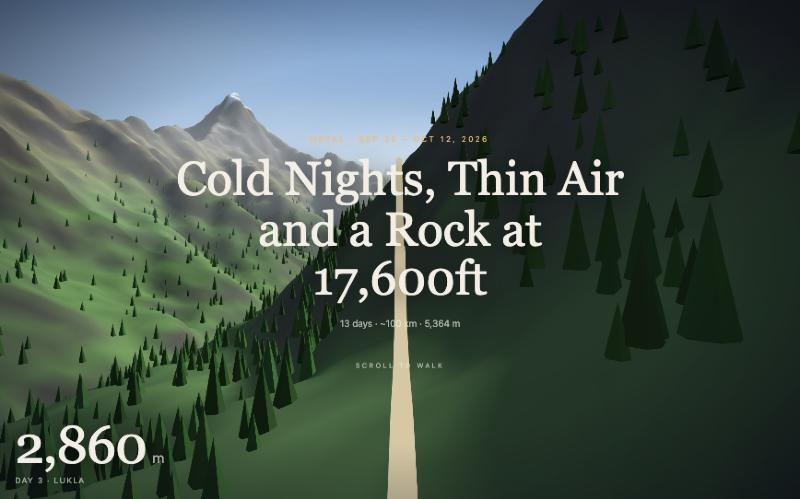
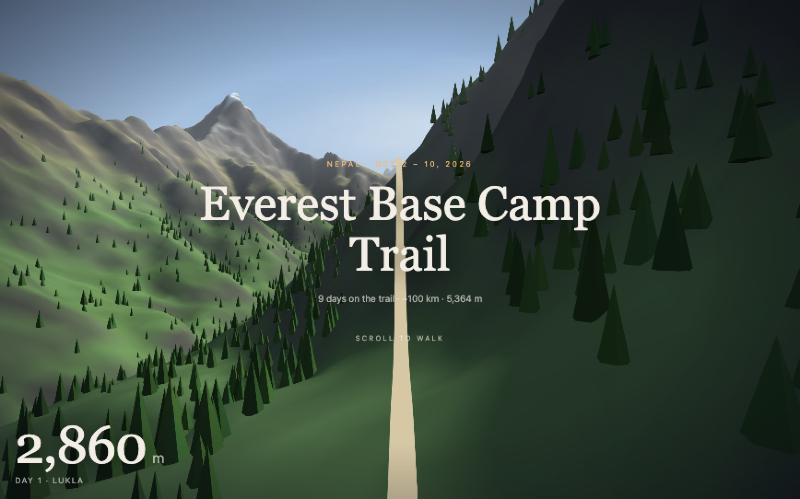
Flythrough: its own title, and days counted from the trail
The flythrough is now "Everest Base Camp Trail" rather than the post's title, and it counts days from where the walking starts: Day 1 is Lukla and Phakding (Oct 2), Namche is Day 2, Syangboche Day 3, Tengboche Day 4, Dingboche Day 5, Nangkartshang Day 6, Chukpi Lhara Day 7, Gorak Shep and Base Camp Day 8, the way back Day 9, Lukla Day 10. The ending reads "Oct 11 - 12 - Kathmandu". The intro says "9 days on the trail". The page title, share text, post card ("Fly the trail") and preview image follow.

diff --git a/public/flythrough/ebc.html b/public/flythrough/ebc.html
@@ -3,13 +3,13 @@
 <head>
 <meta charset="utf-8">
 <meta name="viewport" content="width=device-width,initial-scale=1">
-<title>EBC Flythrough</title>
-<meta name="description" content="A scroll-driven 3D flythrough of my Everest Base Camp trek, Sep 30 – Oct 12, 2026.">
+<title>Everest Base Camp Trail — a 3D flythrough</title>
+<meta name="description" content="A scroll-driven 3D flythrough of the Everest Base Camp trail: nine days from Lukla to Base Camp and back, Oct 2 – 10, 2026.">
 <link rel="canonical" href="https://riazz.vercel.app/flythrough/ebc">
 <meta property="og:type" content="website">
 <meta property="og:url" content="https://riazz.vercel.app/flythrough/ebc">
-<meta property="og:title" content="Fly the route: Everest Base Camp">
-<meta property="og:description" content="Scroll through 13 days of the Khumbu trail in 3D, from Lukla to Base Camp.">
+<meta property="og:title" content="Everest Base Camp Trail: a 3D flythrough">
+<meta property="og:description" content="Scroll through nine days on the Khumbu trail in 3D, from Lukla to Base Camp and back.">
 <meta property="og:image" content="https://riazz.vercel.app/flythrough/ebc-preview.jpg">
 <meta property="og:image:width" content="800">
 <meta property="og:image:height" content="499">
@@ -98,15 +98,15 @@
 <button id="play" class="ui sans" type="button">▶ Auto-fly</button>
 
 <div id="intro" class="ui center">
-  <div class="k sans">Nepal · Sep 30 – Oct 12, 2026</div>
-  <h1>Cold Nights, Thin Air and a Rock at 17,600ft</h1>
-  <div class="s sans">13 days · ~100 km · 5,364 m</div>
+  <div class="k sans">Nepal · Oct 2 – 10, 2026</div>
+  <h1>Everest Base Camp Trail</h1>
+  <div class="s sans">9 days on the trail · ~100 km · 5,364 m</div>
   <div class="scroll sans">Scroll to walk</div>
 </div>
 
 <div id="hud" class="ui">
   <div id="alt">2,860<small class="sans">m</small></div>
-  <div id="where" class="sans">Day 3 · Lukla</div>
+  <div id="where" class="sans">Day 1 · Lukla</div>
 </div>
 
 <div id="rail" class="ui"><b id="railDot"></b></div>
@@ -121,7 +121,7 @@
 </div>
 
 <div id="outro" class="ui center" style="opacity:0">
-  <div class="k sans">Day 12 – 13 · Kathmandu</div>
+  <div class="k sans">Back in Kathmandu · Oct 11 – 12</div>
   <h2>Headache gone. Hot bath. Gratitude.</h2>
   <p class="t sans">Boudhanath at dawn, the ghats of Pashupatinath at dusk, and a new respect for the ordinary comforts. The mountain doesn't care about ego, and the Sherpas were the real strength of this trip.</p>
   <div class="stats">
@@ -160,39 +160,39 @@ const LOW = matchMedia('(max-width:640px)').matches || (navigator.hardwareConcur
 const REDUCED = matchMedia('(prefers-reduced-motion:reduce)').matches;   // no camera sway or fluttering flags
 
 const stops = [
-  { p:0.00, place:'Lukla', alt:2860, day:'Day 3 · Oct 2', noCard:true },
-  { p:0.04, place:'Phakding', alt:2610, day:'Day 3 · Oct 2', title:'The trail begins',
+  { p:0.00, place:'Lukla', alt:2860, day:'Day 1 · Oct 2', noCard:true },
+  { p:0.04, place:'Phakding', alt:2610, day:'Day 1 · Oct 2', title:'The trail begins',
     text:'A 3 AM drive, a 25-minute flight to Lukla, permits checked, and boots on the trail at 11:30. About 10°C. First yak meat.',
     img:'Screenshot%202026-10-14%20at%203.45.47%20PM.jpg' },
-  { p:0.16, place:'Namche Bazaar', alt:3440, day:'Day 4 · Oct 3', title:'Hillary Bridge, and a wrong turn',
+  { p:0.16, place:'Namche Bazaar', alt:3440, day:'Day 2 · Oct 3', title:'Hillary Bridge, and a wrong turn',
     text:'Across the Hillary Bridge, one wrong turn in the forest, and the first light headache. Dal Bhat for dinner. Diamox skipped. 2–3°C outside.',
     img:null },
-  { p:0.27, place:'Syangboche', alt:3860, day:'Day 5 · Oct 4', title:'First sight of Everest',
+  { p:0.27, place:'Syangboche', alt:3860, day:'Day 3 · Oct 4', title:'First sight of Everest',
     text:'Broad and massive, not spiky, sitting between other peaks. An hour spent in near-silence.',
     img:'Screenshot%202026-10-14%20at%204.03.25%20PM.jpg' },
-  { p:0.37, place:'Tengboche', alt:3867, day:'Day 6 · Oct 5', title:'Tengboche monastery',
+  { p:0.37, place:'Tengboche', alt:3867, day:'Day 4 · Oct 5', title:'Tengboche monastery',
     text:'A steep descent, a steep climb, and the monastery at 3,867 m. The headache gets louder.',
     img:'Screenshot%202026-10-14%20at%204.13.10%20PM.jpg' },
-  { p:0.48, place:'Dingboche', alt:4410, day:'Day 7 · Oct 6', title:'The Milky Way at 4,410 m',
+  { p:0.48, place:'Dingboche', alt:4410, day:'Day 5 · Oct 6', title:'The Milky Way at 4,410 m',
     text:'Lunch at Hilltop Lodge, coffee at Café 4410, and after dark, the Milky Way.',
     img:'Screenshot%202026-10-14%20at%204.11.57%20PM.jpg' },
-  { p:0.58, place:'Nangkartshang Peak', alt:5083, day:'Day 8 · Oct 7', title:'A first summit',
+  { p:0.58, place:'Nangkartshang Peak', alt:5083, day:'Day 6 · Oct 7', title:'A first summit',
     text:'Three hours up, two hours down. 5,083 m, the first mountain summit ever.',
     img:null },
-  { p:0.69, place:'Chukpi Lhara', alt:4940, day:'Day 9 · Oct 8', title:'The memorial, then first snow',
+  { p:0.69, place:'Chukpi Lhara', alt:4940, day:'Day 7 · Oct 8', title:'The memorial, then first snow',
     text:'A field of stone chortens for climbers lost on the mountain, Babu Chiri Sherpa among them. Just past it, the trail turns white.',
     img:'Screenshot%202026-10-14%20at%204.18.32%20PM.jpg' },
-  { p:0.79, place:'Gorak Shep', alt:5164, day:'Day 10 · Oct 9', title:'5 AM alarm',
+  { p:0.79, place:'Gorak Shep', alt:5164, day:'Day 8 · Oct 9', title:'5 AM alarm',
     text:'A lodge at 5,164 m, a very cold and very long night, then the last push toward base camp.',
     img:null },
-  { p:0.88, place:'Everest Base Camp', alt:5364, day:'Day 10 · Oct 9', title:'5,364 m',
+  { p:0.88, place:'Everest Base Camp', alt:5364, day:'Day 8 · Oct 9', title:'5,364 m',
     text:'A painted boulder: EVEREST BASE CAMP. Climbing on top, overwhelmed. The first in the bloodline to stand here.',
     img:'IMG_0282.jpg' },
-  { p:0.945, place:'Pheriche → Lukla', alt:4371, day:'Day 11 · Oct 10', title:'Snow, a horse, a helicopter',
+  { p:0.945, place:'Pheriche → Lukla', alt:4371, day:'Day 9 · Oct 10', title:'Snow, a horse, a helicopter',
     text:'Overnight snowfall. A horse slips on the ice. A severe headache at Pheriche, then a first helicopter ride down.',
     img:'Screenshot%202026-10-14%20at%204.23.52%20PM.jpg' },
-  { p:0.975, place:'Lukla', alt:2860, day:'Day 12 · Oct 11', noCard:true },
-  { p:1.00, place:'Kathmandu', alt:1300, day:'Day 12–13 · Oct 11–12', noCard:true },
+  { p:0.975, place:'Lukla', alt:2860, day:'Day 10 · Oct 11', noCard:true },
+  { p:1.00, place:'Kathmandu', alt:1300, day:'Oct 11–12', noCard:true },
 ];
 const altKeys = stops.map(s => [s.p, s.alt]);
 

diff --git a/lib/blog-extras.ts b/lib/blog-extras.ts
@@ -10,8 +10,8 @@ export interface Flythrough {
 export const FLYTHROUGHS: Record<string, Flythrough> = {
   'everest-base-camp-2026': {
     href:  '/flythrough/ebc',
-    title: 'Fly the route',
-    blurb: 'Scroll through the trek in 3D: 13 days, from Lukla to the painted rock at Base Camp.',
+    title: 'Fly the trail',
+    blurb: 'Scroll the Everest Base Camp trail in 3D: nine days on the trail, from Lukla to the painted rock at Base Camp and back.',
     cta:   'Start the flythrough',
     image: '/flythrough/ebc-preview.jpg',
   },
